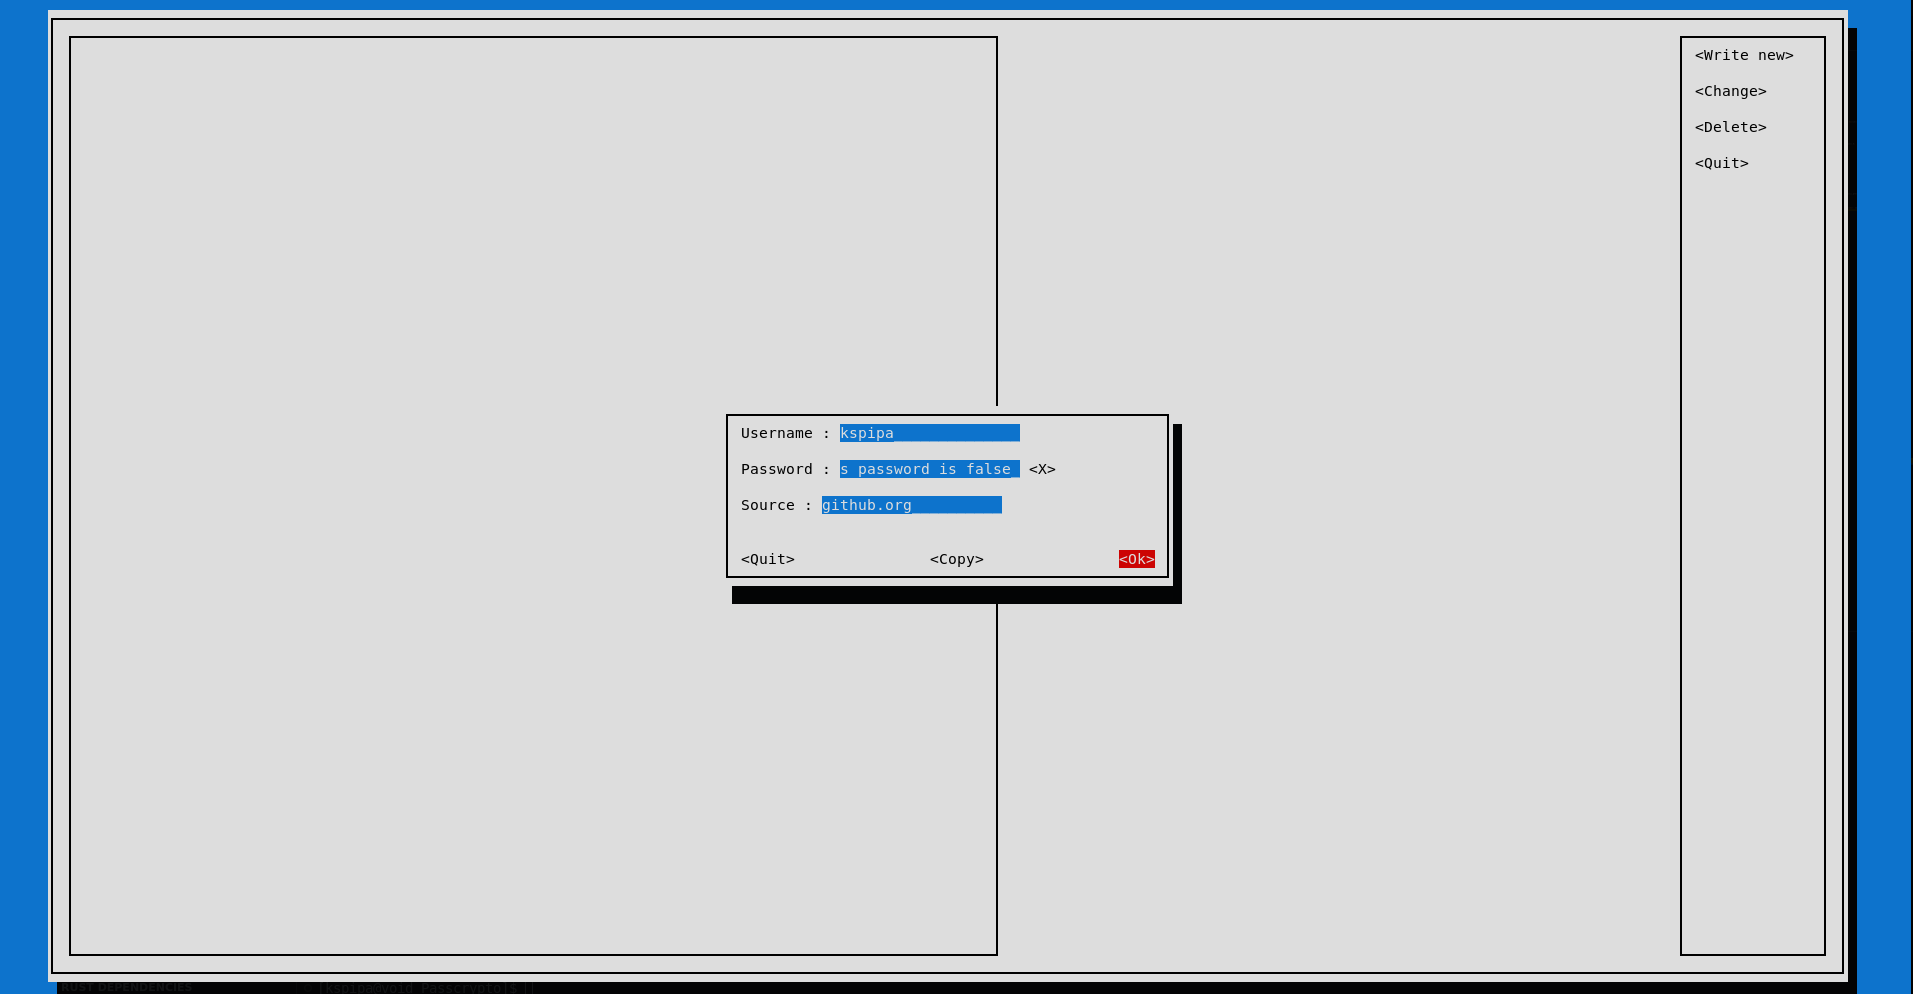
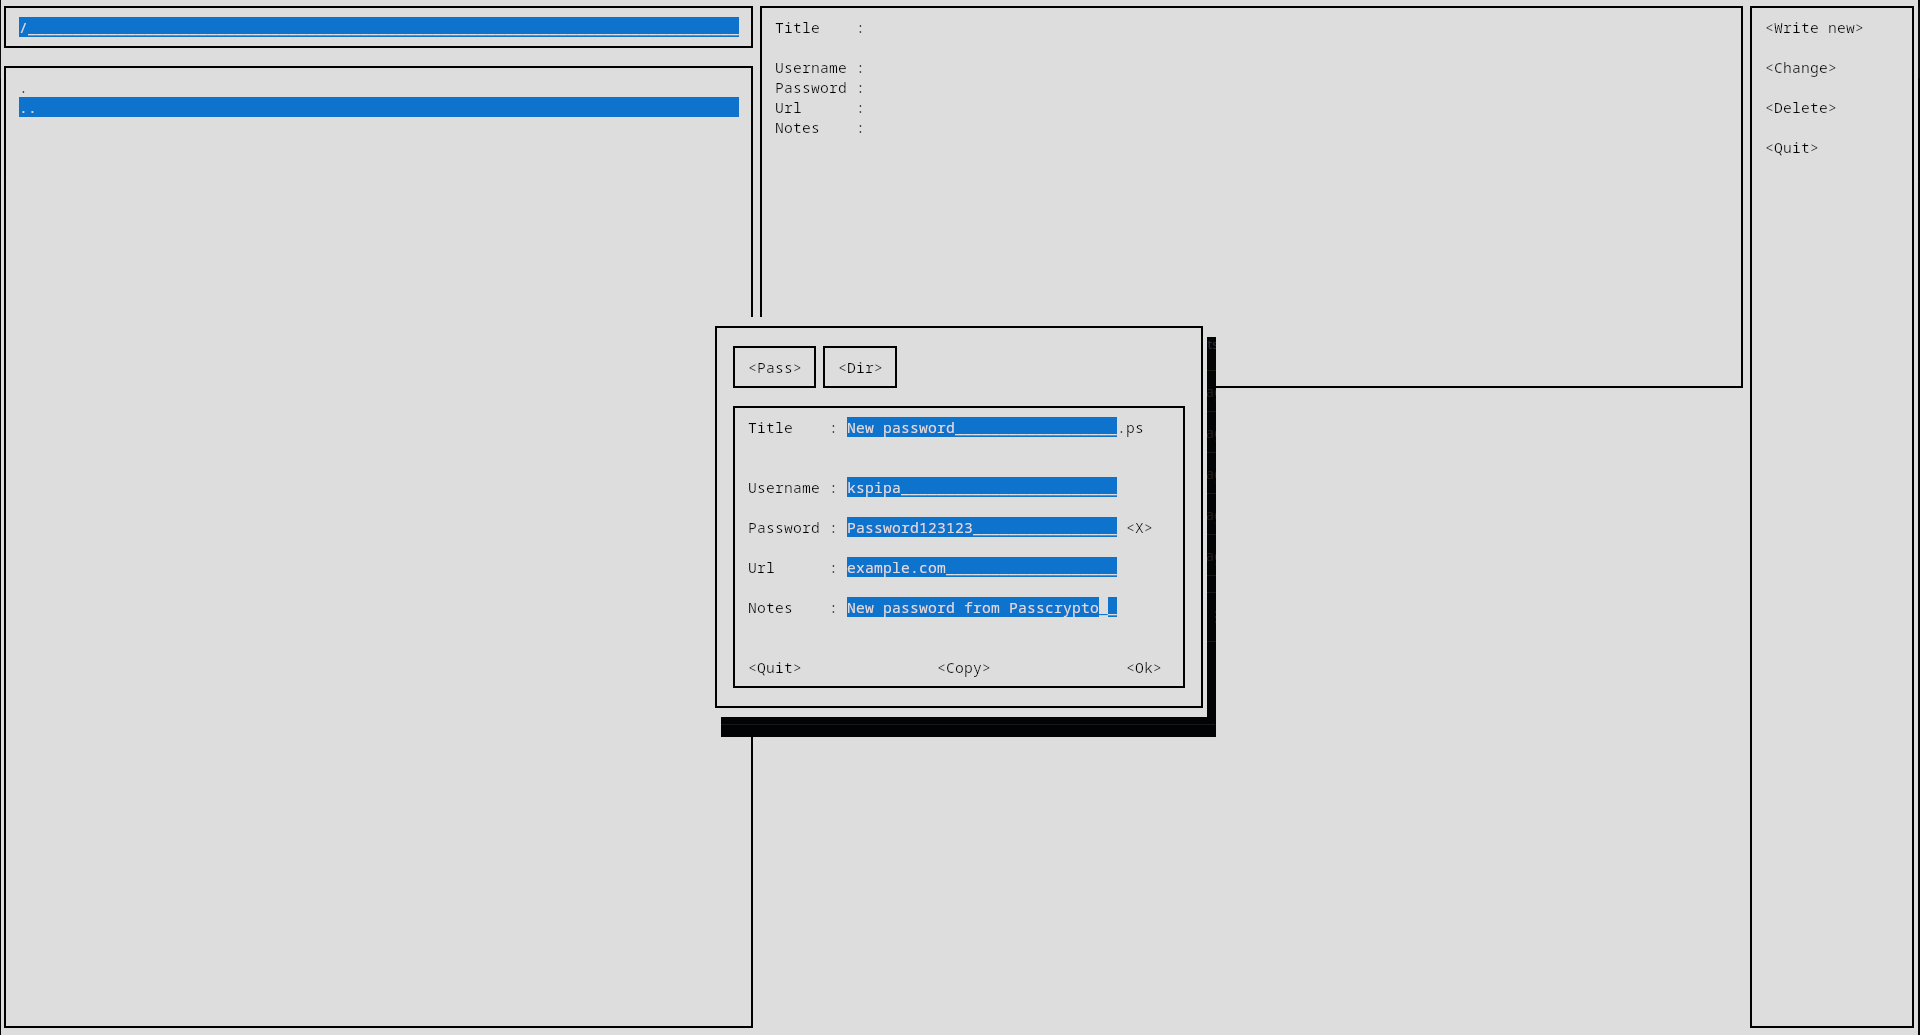
.

Changed region(s): [[0.0, 0.0, 1.0, 1.0], [0.3701, 0.3119, 0.6477, 0.7173]]

diff --git a/README.md b/README.md
@@ -5,12 +5,14 @@ This password manager uses AES-256 to encrypt passwords and SHA-256 to create a 
 ![Employee data](https://github.com/kspipa/Passcrypto/blob/master/pics/_003.png?raw=true "Enter screen")
 ![Employee data](https://github.com/kspipa/Passcrypto/blob/master/pics/_004.png?raw=true "Write layer")
 ![Employee data](https://github.com/kspipa/Passcrypto/blob/master/pics/_005.png?raw=true "Main layer")
+![Employee data](https://github.com/kspipa/Passcrypto/blob/master/pics/_006.png?raw=true "Main layer in new dir")
 
 # Download and build
 For download and build you should run these commands
 ```
 git clone https://github.com/kspipa/Passcrypto.git
 cd Passcrypto
+# you should install pkgconf with your package manager
 cargo run
 ```
 or you can download executable file from releases
